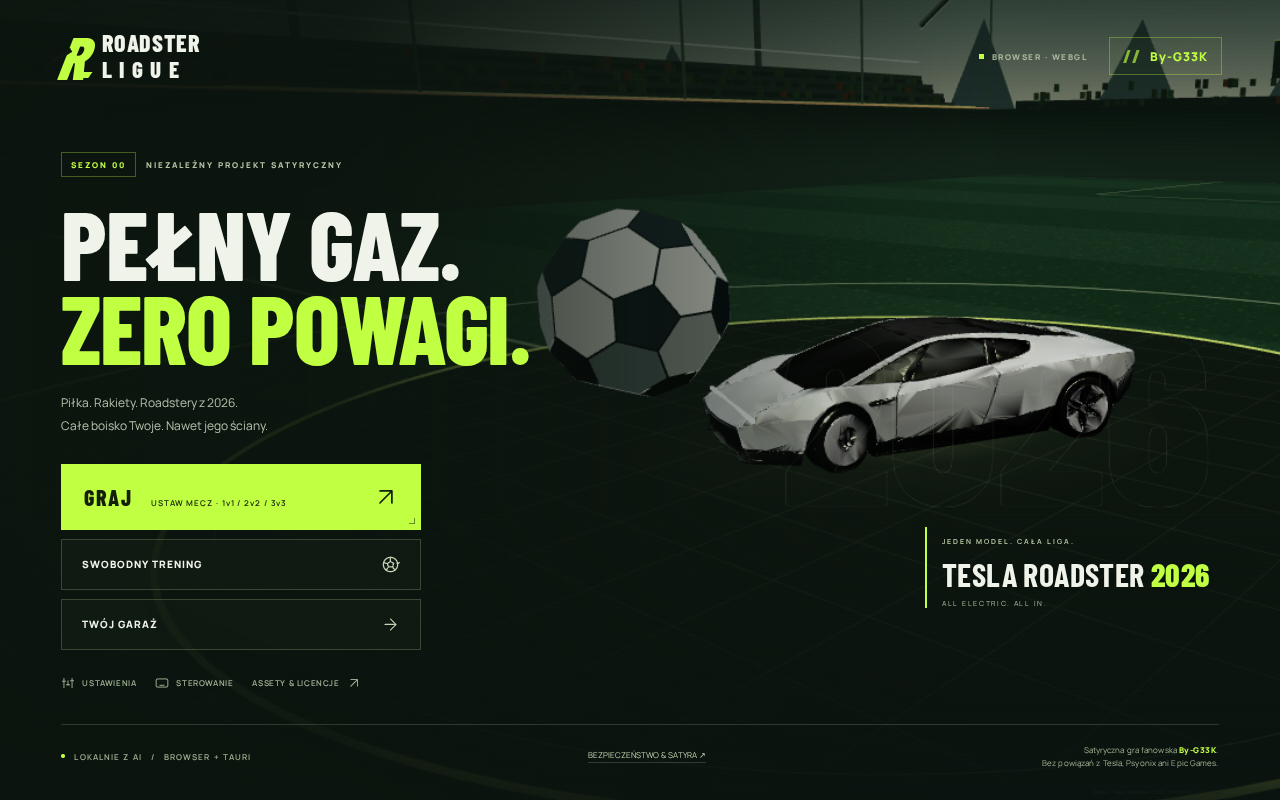
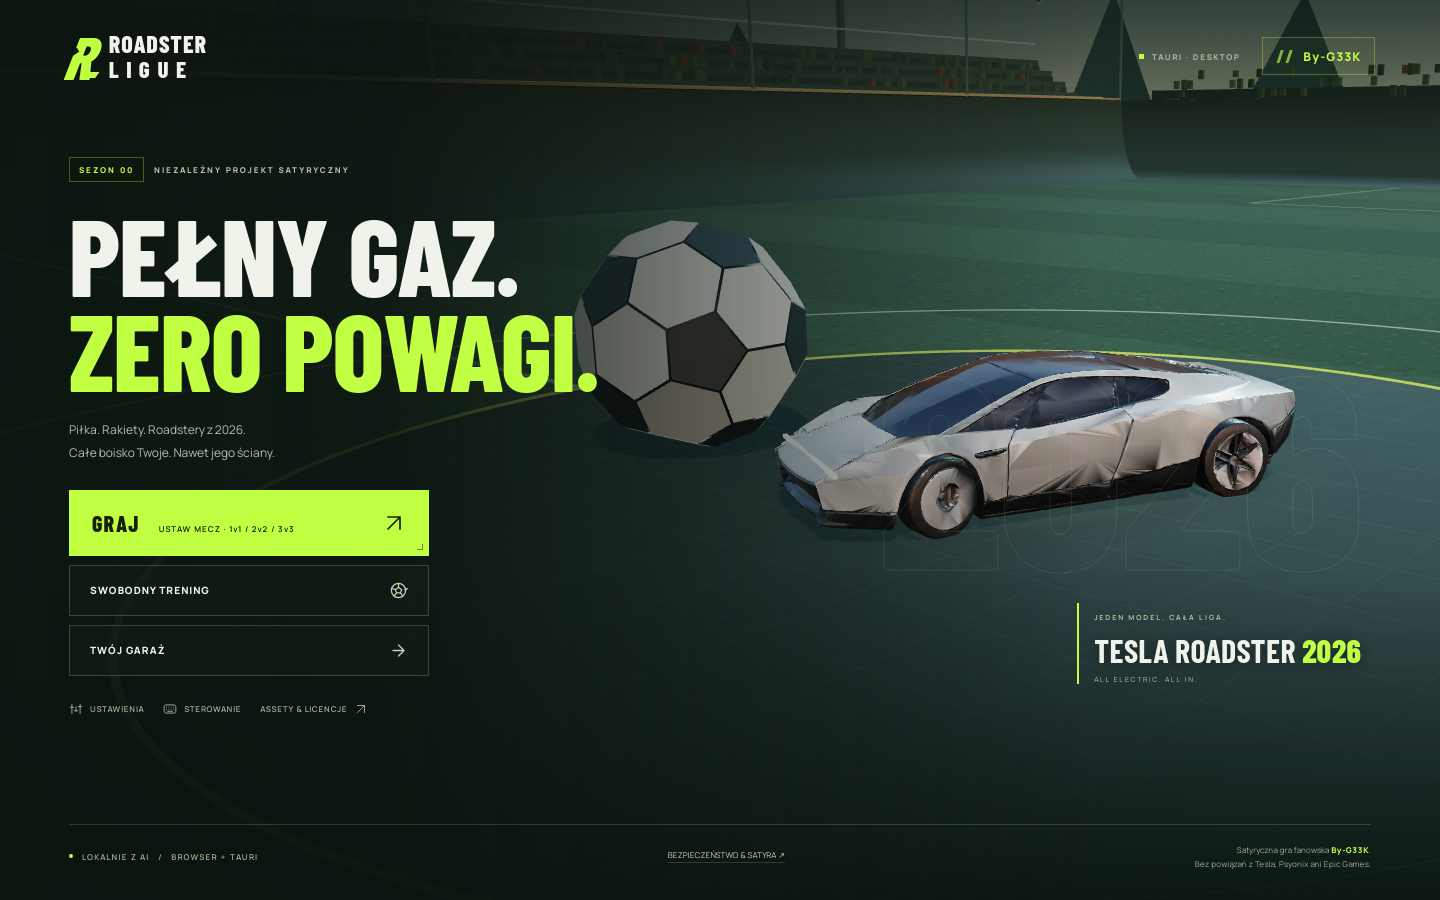
Record verified live browser and Linux playtests; upload installers only

diff --git a/TEST_RESULTS.md b/TEST_RESULTS.md
@@ -42,7 +42,7 @@ The production build was served only under `/roadster-ligue/`, with no host-root
 
 ## Tauri compile check: PASS
 
-`cargo check --manifest-path src-tauri/Cargo.toml --locked` completed on Debian 13 x86_64 with Rust 1.99.1, Tauri 2.12.5 and WebKitGTK 2.54.0. The real Rust application, capability definitions, embedded frontend and Tauri configuration compiled successfully. This check does not claim a Windows/macOS installer or native graphics-driver test; the manual desktop workflow builds installers on native runners.
+`cargo check --manifest-path src-tauri/Cargo.toml --locked` completed on Debian 13 x86_64 with Rust 1.99.1, Tauri 2.12.5 and WebKitGTK 2.54.0. The real Rust application, capability definitions, embedded frontend and Tauri configuration compiled successfully. The manual desktop workflow also completed a full Linux release build and produced .deb and AppImage installers. The packaged executable was then smoke-tested under native WebKitGTK; details are below. Windows/macOS native installers are configured but have not been executed.
 
 ## Build and dependencies: PASS
 
@@ -56,3 +56,15 @@ Windows/macOS desktop binaries, physical gamepad hardware, real phone touch scre
 ## Packaging command correction
 
 v1.1.1 forwards the Cargo lock flag using `npm run tauri -- build -- --locked`. Passing `--locked` directly to `tauri build` is not supported by the pinned CLI. The original workflow exposed this during the installer check; documentation and workflow invocation have been corrected.
+
+## Published browser and installer checks: PASS
+
+- Public GitHub Pages URL returned the correct game. The complete browser smoke suite (opening warning, menu, 19 gameplay assertions, garage/settings/controls, keyboard, pause, portrait/landscape, no JavaScript/shader errors) also passed against the live site.
+- GitHub browser tests and Pages deployment succeeded: https://github.com/ProgrammerWUnrealu/roadster-ligue/actions/runs/39799787849
+- Linux Tauri release build, Debian package and AppImage succeeded: https://github.com/ProgrammerWUnrealu/roadster-ligue/actions/runs/39799787416
+- Downloaded .deb size: 3,734,326 bytes. AppImage size: 82,631,160 bytes. Unsigned development installers, not production-signed binaries.
+- Extracted the packaged .deb and launched its executable on Debian 13, WebKitGTK 2.54.0, Xvfb and software Mesa. The initial static safety/satire screen displayed correctly. After acknowledgement the licensed 3D model and opening menu loaded, showing TAURI · DESKTOP and By-G33K.
+- Entered native free play and applied W/F keyboard input. The roadster accelerated to the displayed 180 km/h, boosted and hit the ball; the HUD awarded a shot. Native screenshots were visually checked. This is a basic native smoke test, not a repeat of all automated physics assertions under a native WebDriver.
+- Native dependencies and browser-asset license notices were present in the .deb resources.
+
+The installer workflow uploads installer files only, not the bulky temporary AppDir staging tree. The release build tested above and the final source differ only in documentation, the README screenshot and artifact-upload globs; gameplay and native application code are unchanged.

diff --git a/TAURI.md b/TAURI.md
@@ -71,3 +71,7 @@ WebGL 2 and audio availability depend on the platform's WebView2/WKWebView/WebKi
 ## Dependency notices
 
 `NATIVE_DEPENDENCY_NOTICES.txt` is bundled with installers and records exact source-package URLs, declared licenses and the notices supplied by locked Rust crates (including optional/build-only/platform-specific packages). If Cargo.lock changes, regenerate with `python3 tools/native-notices.py`. This collector is not a legal audit; system libraries retain their own licenses.
+
+## Verified release
+
+v1.1.1 produced Linux .deb and AppImage installers in the native CI job. The packaged .deb executable was launched and basic play was checked under Debian/WebKitGTK. Windows and macOS configurations are prepared but were not run. See [TEST_RESULTS.md](TEST_RESULTS.md) for exact evidence and limitations.
